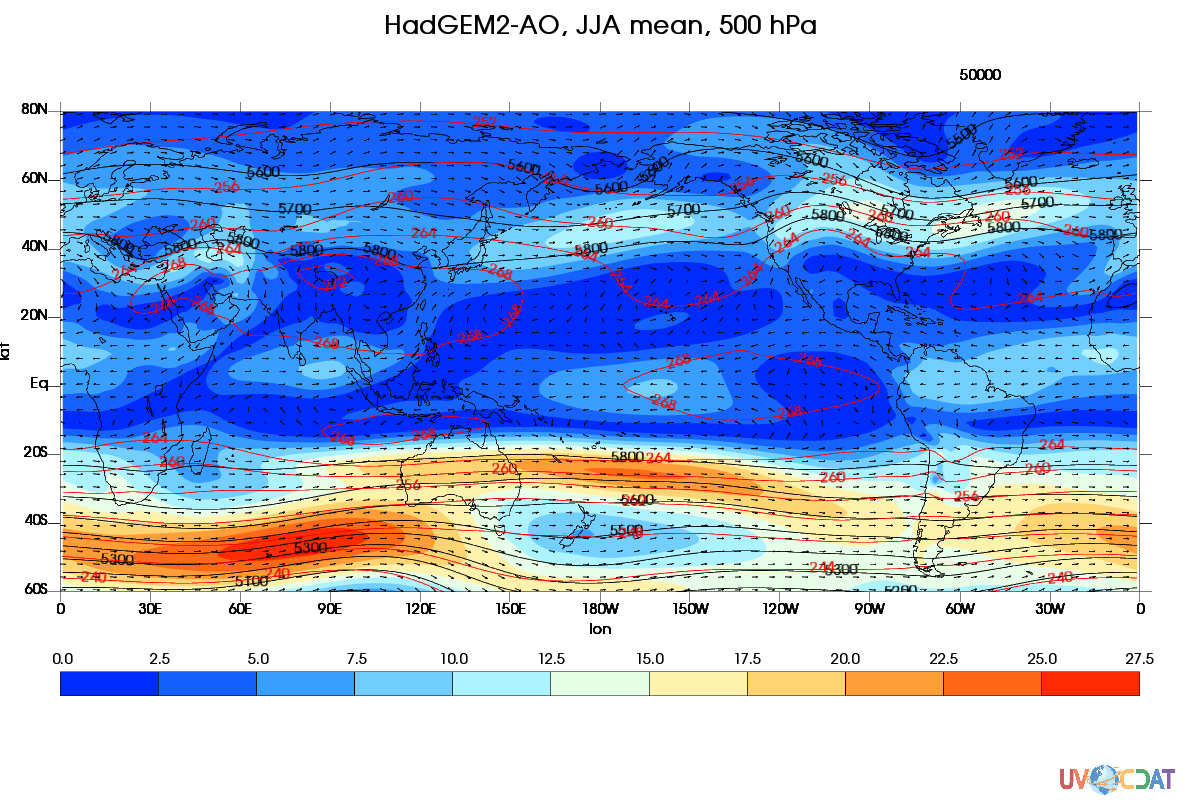
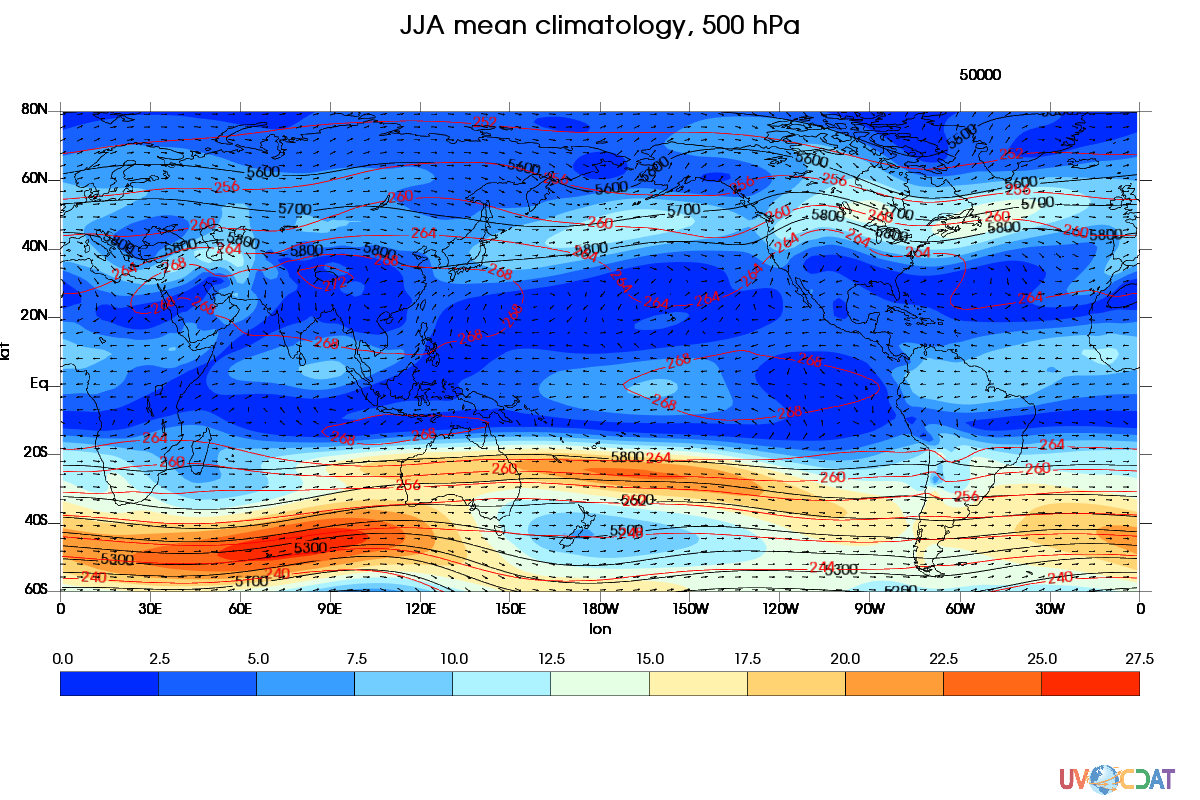
code clean up

Changed region(s): [[0.3083, 0.0, 0.6783, 0.0625]]

diff --git a/example_500mb_wnd_ts_gph_jja_clim.py b/example_500mb_wnd_ts_gph_jja_clim.py
@@ -1,102 +1,76 @@
 ################################################################################################# 
-# This python script plots climatologyt of JJA, at 500 hPa, obtained from one single CMIP5 model
+# This Python script plots JJA climatology at 850 hPa level, which given from one of CMIP5 models
 # 
-# Ji-Woo Lee (jwlee@llnl.gov), April 2016
+# Ji-Woo Lee (jwlee@llnl.gov), August 2016
 ################################################################################################# 
 
 import cdms2 as cdms
 import cdutil
 import cdtime
 import vcs
-#from vorticity import *
 from cdms2 import MV
 
-#
-# Define function to get JJA climatology
-#
-def getjja(var):
-    var_jja = cdutil.JJA.climatology(d(time=(start_time,end_time)))
-    var_jja.units = var.units
-    var_jja.long_name = 'JJA clim. '+var.id+' '+str(start_year)+'-'+str(end_year)
-    var_jja.id = d.id
-    var_jja.model = 'HadGEM2-AO'
-    return(var_jja)
-
-#
-# open file from local -- DATA was downloaded from ESGF
-#
+#================================================================================================
+# Data
+#------------------------------------------------------------------------------------------------
+# List of variables to plot ---
 vars = ['zg','ta','ua','va']
 nvar = len(vars)
 
+# Time period ---
 start_year = 1949
 end_year = 2010
 start_time = cdtime.comptime(start_year)
 end_time = cdtime.comptime(end_year)
 
+# Dictionary for variables ---
 data = {}
 
+# Bring data in ---
 for var in vars[0:nvar]:
-    odir = '/cmip5_css02/data/cmip5/output1/NIMR-KMA/HadGEM2-AO/historical/mon/atmos/Amon/r1i1p1/'+var+'/1/' # Put your data directory here
-    nc = var+'_Amon_HadGEM2-AO_historical_r1i1p1_186001-200512.nc'
-    f = cdms.open(odir+nc)
+  print var
 
-    #
-    # load variable
-    #
-    #d = f(var,latitude=(-60,80),longitude=(0,360),lev=50000)
-    d = f(var,lev=50000)
+  # Open file (In this example case, data was downloaded from ESGF. Please prepare your data) ---
+  odir = '/cmip5_css02/data/cmip5/output1/NIMR-KMA/HadGEM2-AO/historical/mon/atmos/Amon/r1i1p1/'+var+'/1/' # Put your data directory here
+  nc = var+'_Amon_HadGEM2-AO_historical_r1i1p1_186001-200512.nc'
+  f = cdms.open(odir+nc)
 
-    #
-    # climatology calculation
-    #
-    data[var] = getjja(d)
+  # Load variable ---
+  d = f(var,lev=50000)
 
-    print var
+  # Calculate JJA seasonal climatology ---
+  data[var] = cdutil.JJA.climatology(d(time=(start_time,end_time)))
 
-    if(var=='zg'):
-        lon = d.getLongitude()
-        lat = d.getLatitude()
-    f.close()
+  # Close file ---
+  f.close()
 
-#
-# Create canvas
-#
+#================================================================================================
+# Plot
+#------------------------------------------------------------------------------------------------
+# Create canvas ---
 canvas = vcs.init(geometry=(1200,800))
 canvas.open()
 template = canvas.createtemplate()
-template.blank(["title","mean","min","max","dataname","crdate","crtime","units"]) ## Turn off additional information
+template.blank(['title','mean','min','max','dataname','crdate','crtime','units']) ## Turn off additional information
 #template.list() ## This commend could give list of items 
 
-#
-# Set ploting range
-#
+# Set ploting range ---
 lat1=-60
 lat2=80
 lon1=0
 lon2=360
 
-#
-# Calculate vorticity field
-#
-#data['vor'] = vorticity.relative(data['ua'],data['va'],lon,lat)
-#
-# Calculate wind speed, instead, for now...
-#
-data['vor'] = MV.sqrt(data['ua']**2+data['va']**2)
-#
-# Vorticity field 
-#
+# Wind speed ---
+data['wnd'] = MV.sqrt(data['ua']**2+data['va']**2)
 iso = canvas.createisofill()
 iso.datawc_x1 = lon1
 iso.datawc_x2 = lon2
 iso.datawc_y1 = lat1
 iso.datawc_y2 = lat2
-canvas.setcolormap("blue_to_orange")
-canvas.plot(data['vor'],iso,template)
+canvas.setcolormap('blue_to_orange')
+canvas.plot(data['wnd'],iso,template)
 
-#
-# Geopotential height field
-#
+# Geopotential height field ---
 lines1 = vcs.createisoline()
 lines1.datawc_x1 = lon1
 lines1.datawc_x2 = lon2
@@ -108,25 +82,19 @@ lines1.label = 'y'
 lines1.textcolors=['black']
 canvas.plot(data['zg'],lines1,template)
 
-#
-# T field
-#
+# T field ---
 lines2 = vcs.createisoline()
 lines2.datawc_x1 = lon1
 lines2.datawc_x2 = lon2
 lines2.datawc_y1 = lat1
 lines2.datawc_y2 = lat2
 lines2.linecolors = ['red']
-#lines2.line=['solid']
 lines2.line=['dot']
-#lines2.line=['dash']
 lines2.label = 'y'
 lines2.textcolors=['red']
 canvas.plot(data['ta'],lines2,template)
 
-#
-# Plot wind field (vector)
-#
+# Plot wind field (vector) ---
 vec = vcs.createvector()
 ua2 = data['ua'][...,::3,::3] ## Resample U field to reduce vector density to half
 va2 = data['va'][...,::3,::3] ## Resample V filed to reduce vector density to half
@@ -136,20 +104,16 @@ vec.datawc_y1 = lat1
 vec.datawc_y2 = lat2
 canvas.plot(ua2,va2,vec,template)
 
-#
-# Set title
-#
+# Set title ---
 plot_title = vcs.createtext()
 plot_title.x = .5
 plot_title.y = .98
 plot_title.height = 24
-plot_title.halign = "center"
-plot_title.valign = "top"
-plot_title.color="black"
-plot_title.string = data['zg'].model+', JJA mean, 500 hPa'
+plot_title.halign = 'center'
+plot_title.valign = 'top'
+plot_title.color='black'
+plot_title.string = 'JJA mean climatology, 500 hPa'
 canvas.plot(plot_title)
 
-#
-# Drop output as image file
-#
-canvas.png("example_500mb_wnd_ts_gph_jja_clim")
+# Save output as image file ---
+canvas.png('example_500mb_wnd_ts_gph_jja_clim')
